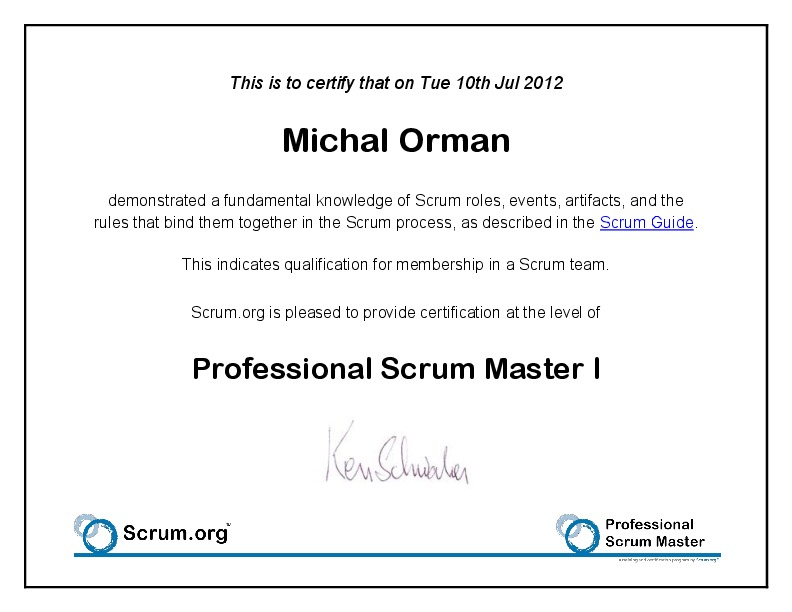
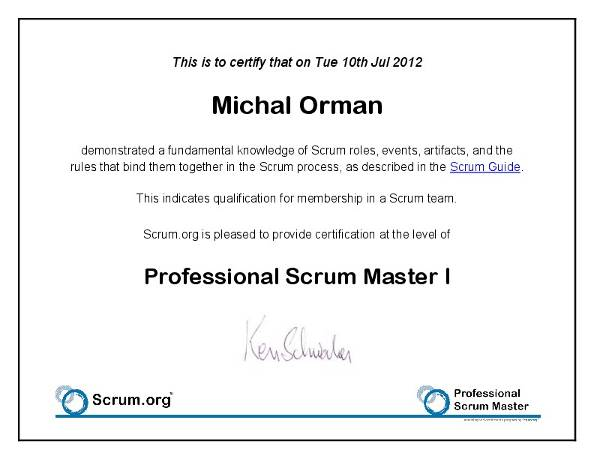
Minify some images.

diff --git a/about/index.html b/about/index.html
@@ -64,42 +64,42 @@ id: about
 
 <ul id="badges">
   <li id="rails-for-zombies-2">
-    <a href="http://www.codeschool.com/users/15605/badges/25">
-      <img src="/assets/images/badges/rails-for-zombies-2.png" alt="Completed Rails For Zombies 2" />
+    <a href="http://www.codeschool.com/users/15605/badges/25" title="Completed Rails for Zombies 2">
+      <img src="/assets/images/badges/rails-for-zombies-2.png" alt="Completed Rails for Zombies 2" />
     </a>
   </li>
   <li id="rails-best-practices">
-    <a href="http://www.codeschool.com/users/15605/badges/2">
+    <a href="http://www.codeschool.com/users/15605/badges/2" title="Completed Rails Best Practices">
       <img src="/assets/images/badges/rails-best-practices.png" alt="Completed Rails Best Practices" />
     </a>
   </li>
   <li id="ruby-bits">
-    <a href="http://www.codeschool.com/users/15605/badges/139">
+    <a href="http://www.codeschool.com/users/15605/badges/139" title="Completed Ruby Bits">
       <img src="/assets/images/badges/ruby-bits.png" alt="Completed Ruby Bits" />
     </a>
   </li>
   <li id="anatomy-of-backbone-js">
-    <a href="http://www.codeschool.com/users/15605/badges/94">
+    <a href="http://www.codeschool.com/users/15605/badges/94" title="Completed Anatomy of Backbone.js">
       <img src="/assets/images/badges/anatomy-of-backbone-js.png" alt="Completed Anatomy of Backbone.js" />
     </a>
   </li>
   <li id="testing-with-rspec">
-    <a href="http://www.codeschool.com/users/15605/badges/115">
+    <a href="http://www.codeschool.com/users/15605/badges/115" title="Completed Testing with RSpec">
       <img src="/assets/images/badges/testing-with-rspec.png" alt="Completed Testing with RSpect" />
     </a>
   </li>
   <li id="git-real">
-    <a href="http://www.codeschool.com/users/15605/badges/125">
+    <a href="http://www.codeschool.com/users/15605/badges/125" title="Completed Git Real">
       <img src="/assets/images/badges/git-real.png" alt="Completed Git Real" />
     </a>
   </li>
   <li id="try-git">
-    <a href="http://www.codeschool.com/users/15605/badges/121">
+    <a href="http://www.codeschool.com/users/15605/badges/121" title="Completed Try Git">
       <img src="/assets/images/badges/try-git.png"  alt="Completed Try Git" />
     </a>
   </li>
   <li id="try-ruby">
-    <a href="http://www.codeschool.com/users/15605/badges/24">
+    <a href="http://www.codeschool.com/users/15605/badges/24" title="Completed Try Ruby">
       <img src="/assets/images/badges/try-ruby.png" alt="Completed Try Ruby" />
     </a>
   </li>

diff --git a/assets/css/style.css b/assets/css/style.css
@@ -346,8 +346,8 @@ blockquote p {
 
 #about #prince2-cert {
   float: right;
-  width: 30%;
-  height: 30%;
+  width: 20%;
+  height: 20%;
   margin: 10px 0 10px 20px;
 }
 
@@ -361,8 +361,8 @@ blockquote p {
 
 #about #ocpjp-cert {
   float: left;
-  width: 30%;
-  height: 30%;
+  width: 25%;
+  height: 25%;
   margin: 0 20px 10px 0;
 }
 
@@ -376,8 +376,8 @@ blockquote p {
 
 #about #psm1-cert {
   float: right;
-  width: 30%;
-  height: 30%;
+  width: 25%;
+  height: 25%;
   margin: 0 20px 10px 0;
 }
 
